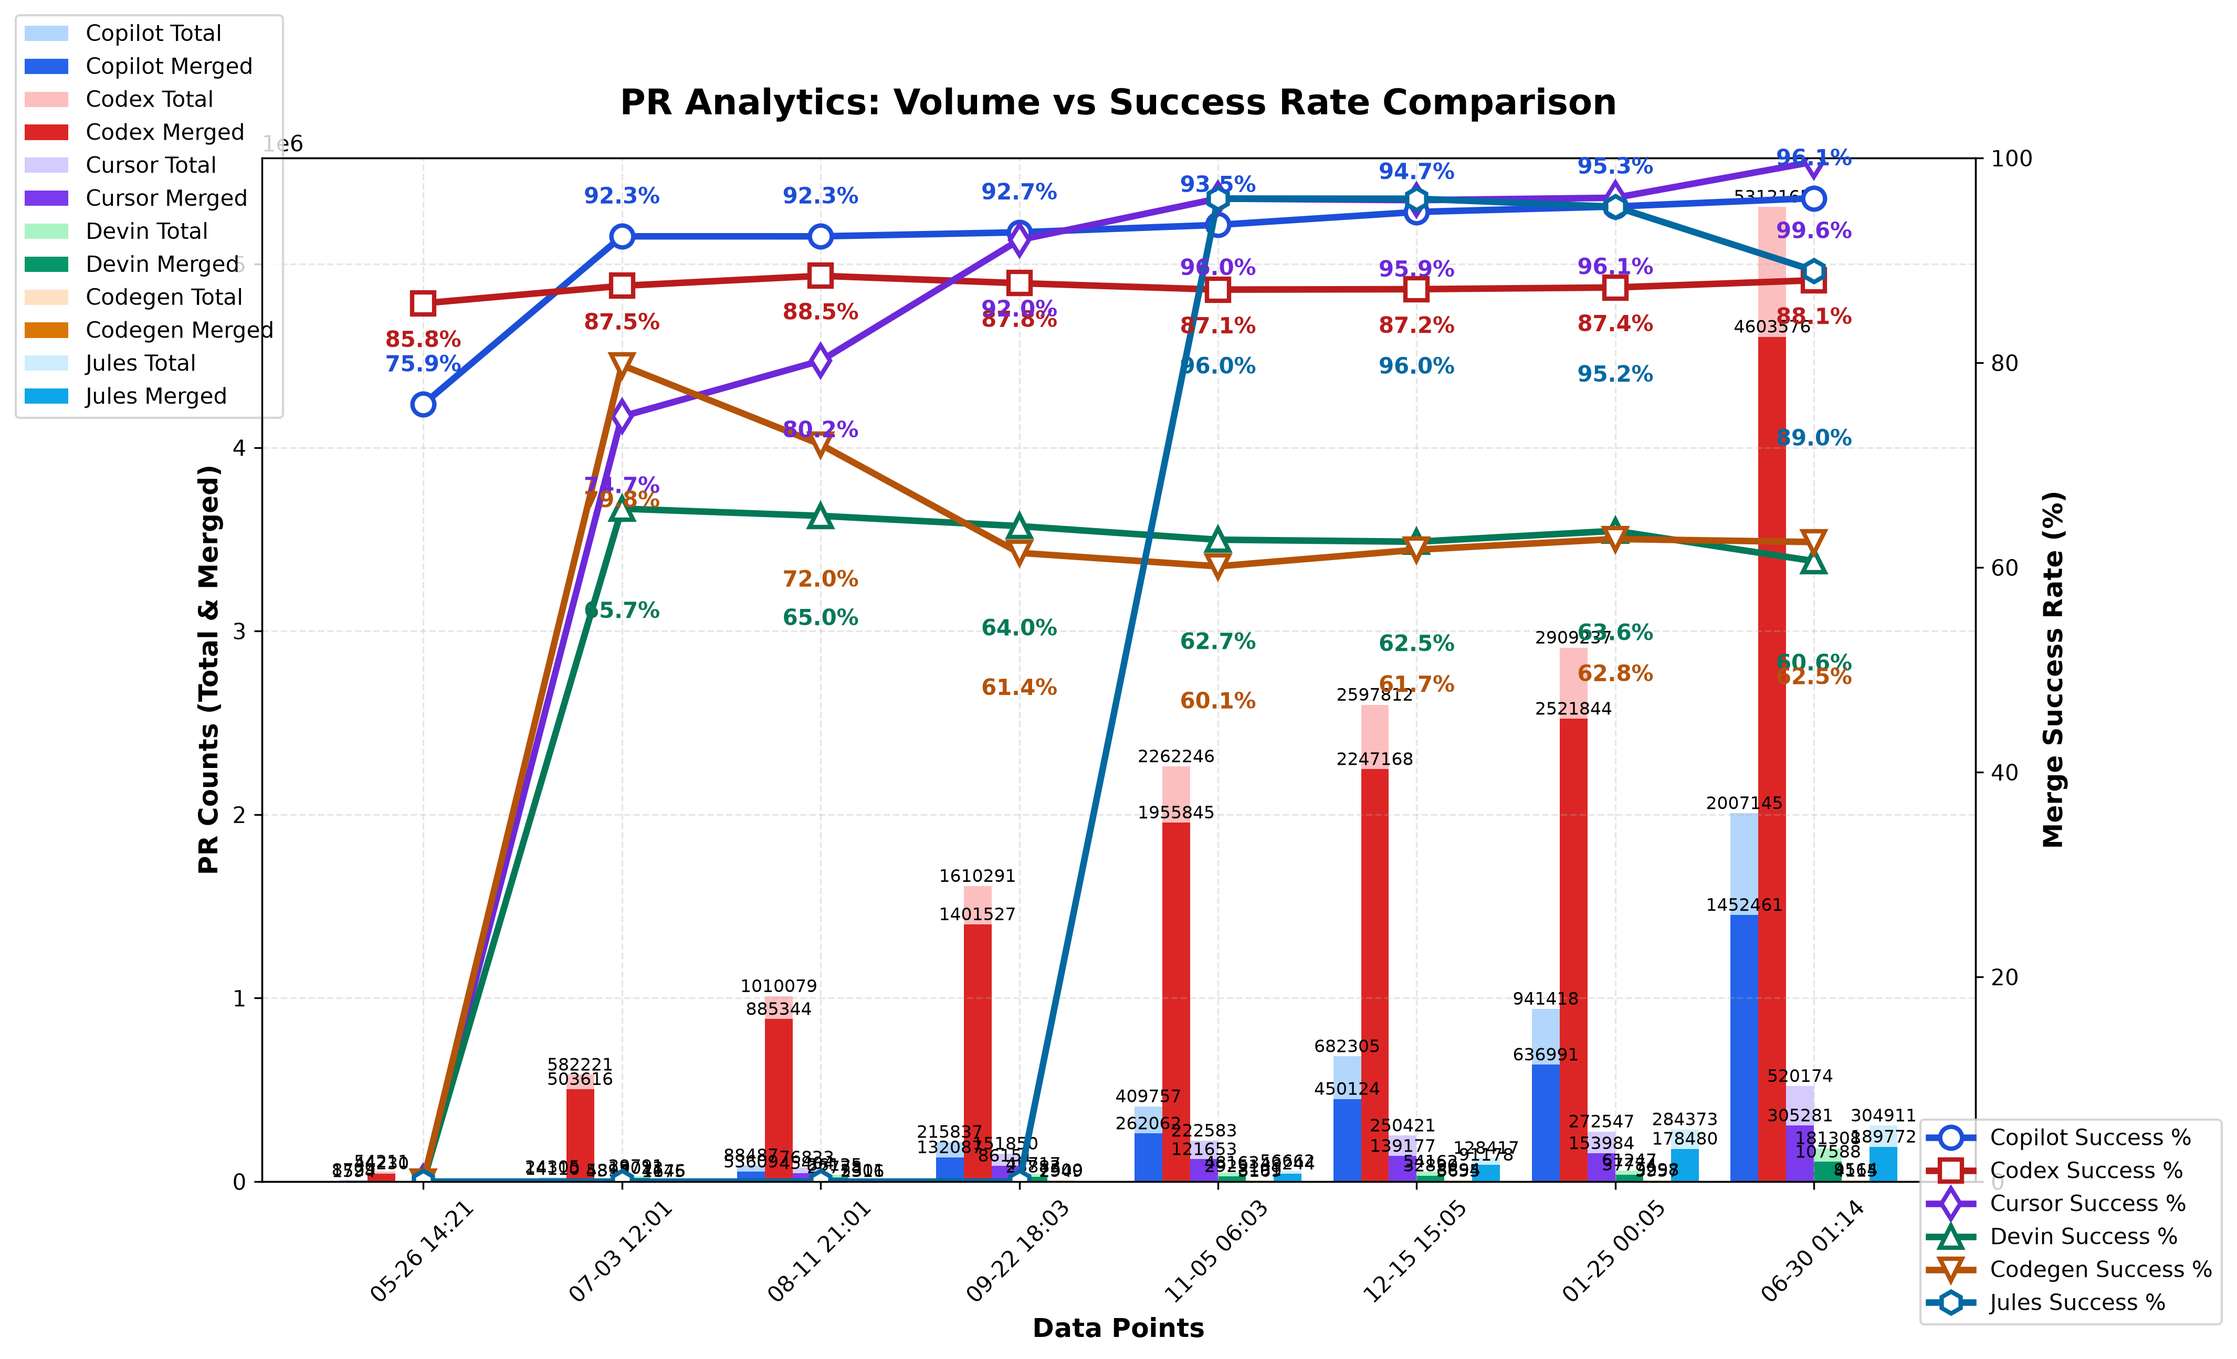
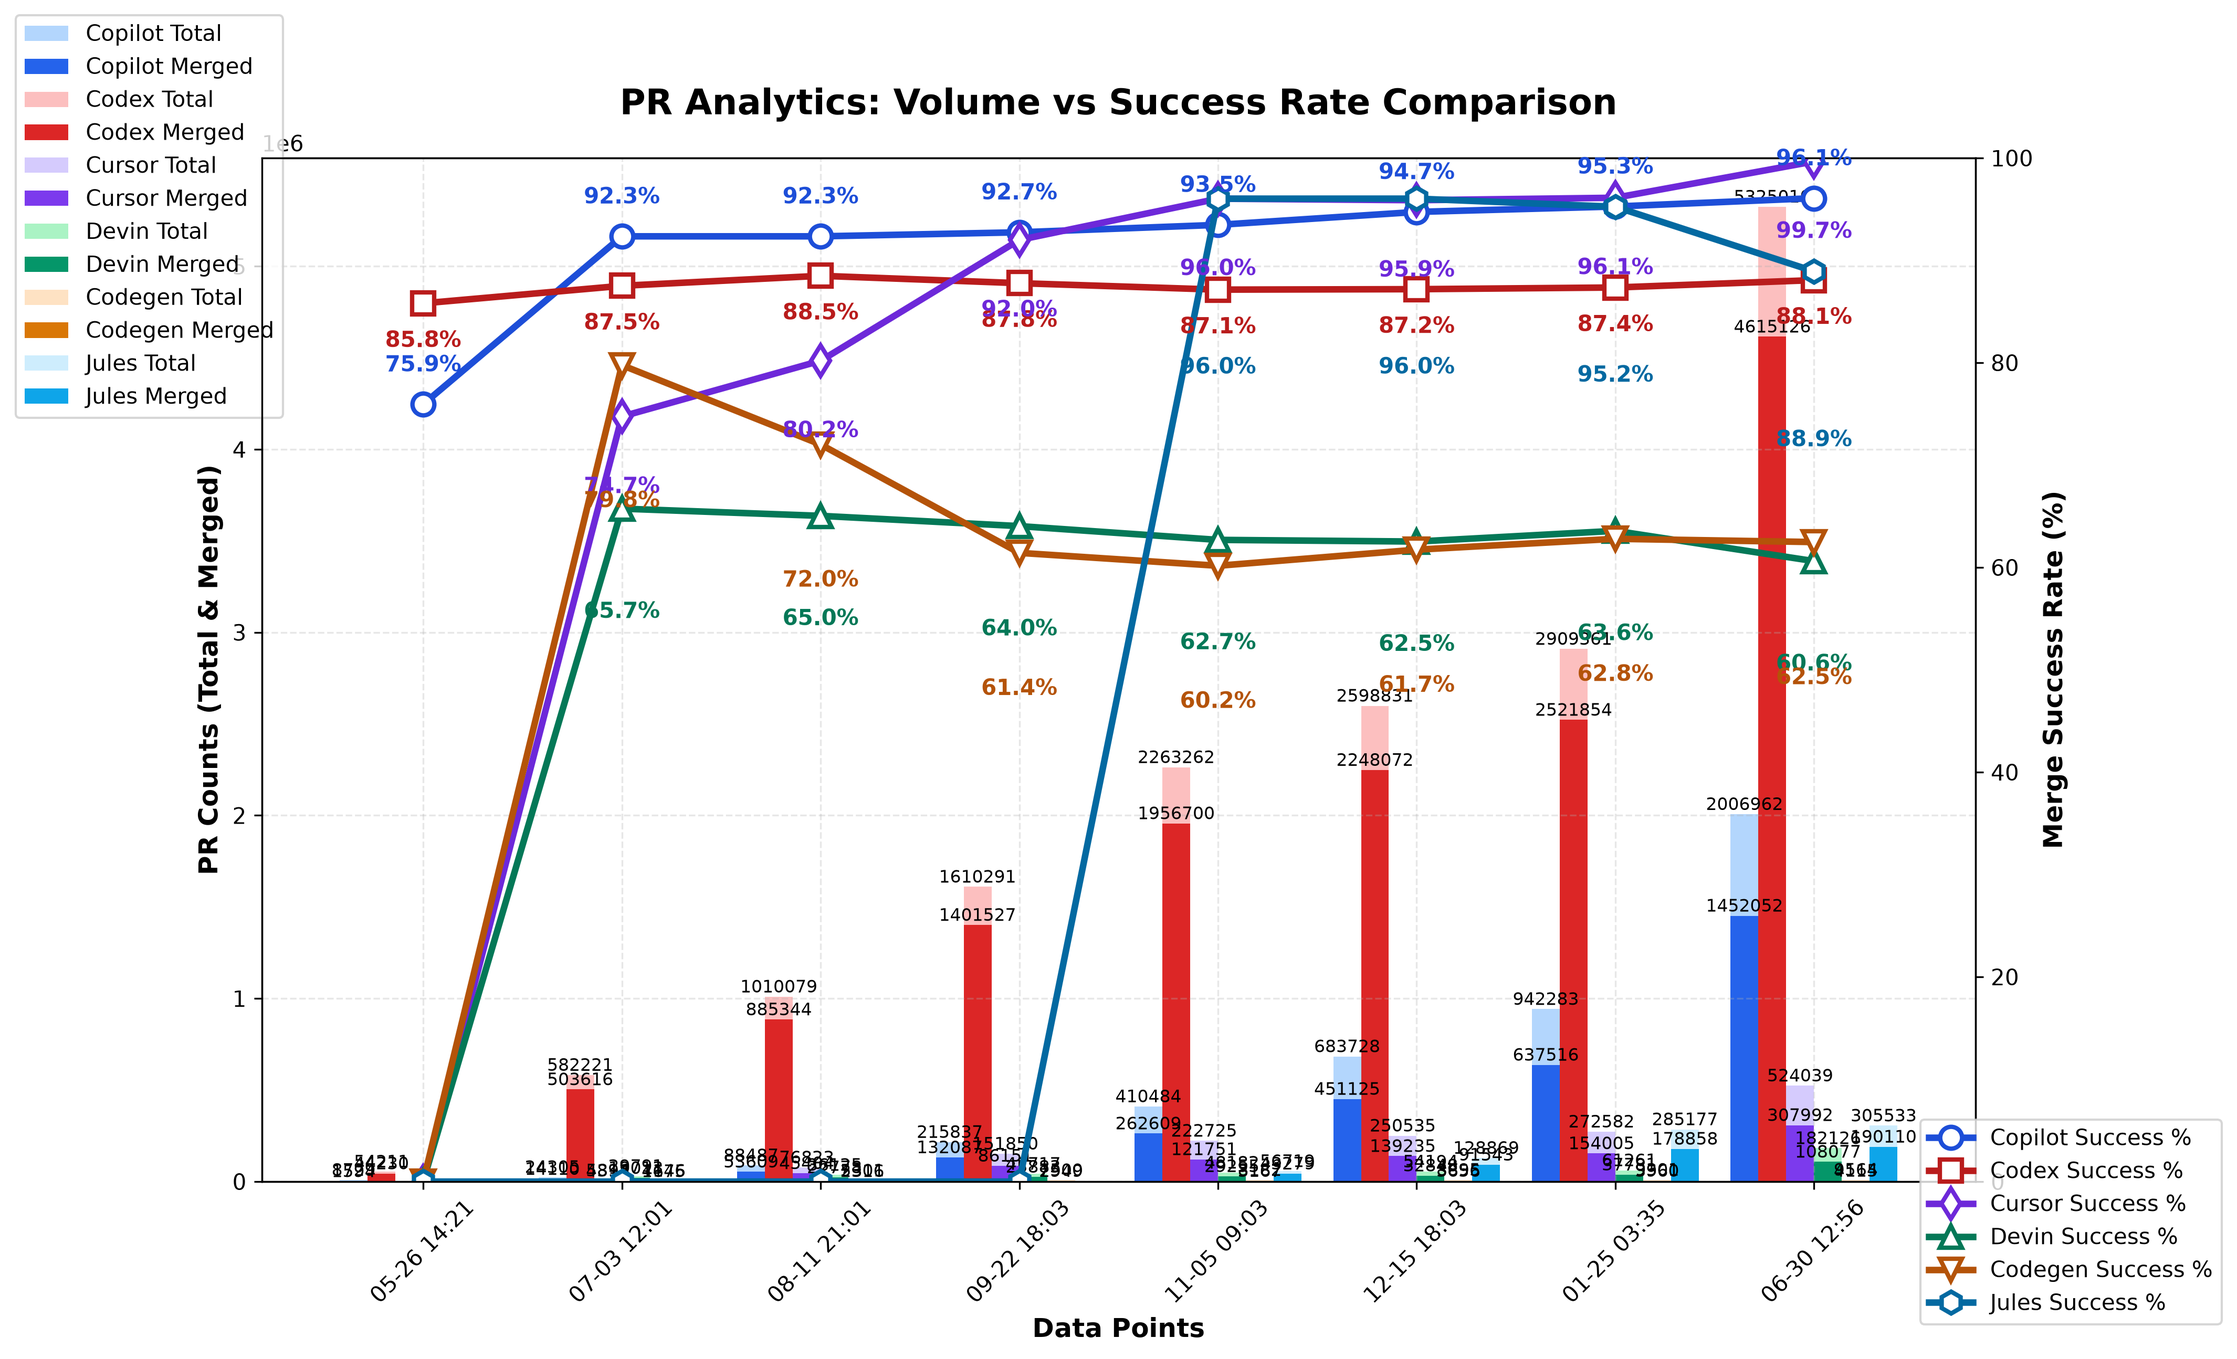
chore: update PR‑approval chart

diff --git a/docs/index.html b/docs/index.html
@@ -54,12 +54,12 @@
         <div class="agents-container" id="agentsContainer">
 
           <div class="agent"
-               data-success-rate="96.07729518449652"
-               data-success-rate-ready="96.07729518449652"
-               data-success-rate-total="72.36452772470349"
-               data-total-prs="2007145"
-               data-ready-prs="1511763"
-               data-merged-prs="1452461"
+               data-success-rate="96.07591578175668"
+               data-success-rate-ready="96.07591578175668"
+               data-success-rate-total="72.35074704952062"
+               data-total-prs="2006962"
+               data-ready-prs="1511359"
+               data-merged-prs="1452052"
                data-agent-name="GitHub Copilot coding agent">
             <div class="agent-header">
               <div class="rank" data-rank="1">#1</div>
@@ -67,9 +67,9 @@
               <div class="agent-info">
                 <h3><a href="https://docs.github.com/en/copilot/how-tos/use-copilot-agents/coding-agent" target="_blank">GitHub Copilot coding agent</a></h3>
                 <span class="agent-subtitle">
-                  <span class="pr-count">1,511,763</span>
+                  <span class="pr-count">1,511,359</span>
                   <span class="pr-type">ready</span> /
-                  <span class="pr-total">2,007,145</span>
+                  <span class="pr-total">2,006,962</span>
                   <span class="pr-total-label">all PRs</span>
                 </span>
               </div>
@@ -84,19 +84,19 @@
               <div class="secondary-metrics">
                 <div class="metric draft-metric">
                   <a href="https://github.com/search?q=is:pr+head:copilot/+is:draft&type=pullrequests" target="_blank">
-                    <span class="metric-count">495,382</span>
+                    <span class="metric-count">495,603</span>
                     <span>draft</span>
                   </a>
                 </div>
                 <div class="metric">
                   <a href="https://github.com/search?q=is:pr+head:copilot/+-is:draft&type=pullrequests" target="_blank">
-                    <span class="metric-count">1,511,763</span>
+                    <span class="metric-count">1,511,359</span>
                     <span>ready</span>
                   </a>
                 </div>
                 <div class="metric">
                   <a href="https://github.com/search?q=is:pr+head:copilot/+is:merged&type=pullrequests" target="_blank">
-                    <span class="metric-count">1,452,461</span>
+                    <span class="metric-count">1,452,052</span>
                     <span>merged</span>
                   </a>
                 </div>
@@ -105,18 +105,18 @@
           <div class="progress-bar">
             <div
               class="progress"
-              style="width: 96.07729518449652%; background-color: #2563eb"
+              style="width: 96.07591578175668%; background-color: #2563eb"
             ></div>
           </div>
         </div>
         
           <div class="agent"
-               data-success-rate="88.05674865841681"
-               data-success-rate-ready="88.05674865841681"
-               data-success-rate-total="86.66101297681831"
-               data-total-prs="5312165"
-               data-ready-prs="5227965"
-               data-merged-prs="4603576"
+               data-success-rate="88.06885632497455"
+               data-success-rate-ready="88.06885632497455"
+               data-success-rate-total="86.66887010540826"
+               data-total-prs="5325010"
+               data-ready-prs="5240361"
+               data-merged-prs="4615126"
                data-agent-name="OpenAI Codex">
             <div class="agent-header">
               <div class="rank" data-rank="2">#2</div>
@@ -124,9 +124,9 @@
               <div class="agent-info">
                 <h3><a href="https://openai.com/index/introducing-codex/" target="_blank">OpenAI Codex</a></h3>
                 <span class="agent-subtitle">
-                  <span class="pr-count">5,227,965</span>
+                  <span class="pr-count">5,240,361</span>
                   <span class="pr-type">ready</span> /
-                  <span class="pr-total">5,312,165</span>
+                  <span class="pr-total">5,325,010</span>
                   <span class="pr-total-label">all PRs</span>
                 </span>
               </div>
@@ -141,19 +141,19 @@
               <div class="secondary-metrics">
                 <div class="metric draft-metric">
                   <a href="https://github.com/search?q=is:pr+head:codex/+is:draft&type=pullrequests" target="_blank">
-                    <span class="metric-count">84,200</span>
+                    <span class="metric-count">84,649</span>
                     <span>draft</span>
                   </a>
                 </div>
                 <div class="metric">
                   <a href="https://github.com/search?q=is:pr+head:codex/+-is:draft&type=pullrequests" target="_blank">
-                    <span class="metric-count">5,227,965</span>
+                    <span class="metric-count">5,240,361</span>
                     <span>ready</span>
                   </a>
                 </div>
                 <div class="metric">
                   <a href="https://github.com/search?q=is:pr+head:codex/+is:merged&type=pullrequests" target="_blank">
-                    <span class="metric-count">4,603,576</span>
+                    <span class="metric-count">4,615,126</span>
                     <span>merged</span>
                   </a>
                 </div>
@@ -162,18 +162,18 @@
           <div class="progress-bar">
             <div
               class="progress"
-              style="width: 88.05674865841681%; background-color: #dc2626"
+              style="width: 88.06885632497455%; background-color: #dc2626"
             ></div>
           </div>
         </div>
         
           <div class="agent"
-               data-success-rate="99.63641704335906"
-               data-success-rate-ready="99.63641704335906"
-               data-success-rate-total="58.68824662516773"
-               data-total-prs="520174"
-               data-ready-prs="306395"
-               data-merged-prs="305281"
+               data-success-rate="99.66507780873516"
+               data-success-rate-ready="99.66507780873516"
+               data-success-rate-total="58.772724930778054"
+               data-total-prs="524039"
+               data-ready-prs="309027"
+               data-merged-prs="307992"
                data-agent-name="Cursor Agents">
             <div class="agent-header">
               <div class="rank" data-rank="3">#3</div>
@@ -181,9 +181,9 @@
               <div class="agent-info">
                 <h3><a href="https://docs.cursor.com/background-agent" target="_blank">Cursor Agents</a></h3>
                 <span class="agent-subtitle">
-                  <span class="pr-count">306,395</span>
+                  <span class="pr-count">309,027</span>
                   <span class="pr-type">ready</span> /
-                  <span class="pr-total">520,174</span>
+                  <span class="pr-total">524,039</span>
                   <span class="pr-total-label">all PRs</span>
                 </span>
               </div>
@@ -191,26 +191,26 @@
             <div class="metrics">
               <div class="primary-metric">
                 <span class="metric-value">
-                  99.6%
+                  99.7%
                 </span>
                 <span class="metric-label">Success Rate</span>
               </div>
               <div class="secondary-metrics">
                 <div class="metric draft-metric">
                   <a href="https://github.com/search?q=is:pr+head:cursor/+is:draft&type=pullrequests" target="_blank">
-                    <span class="metric-count">213,779</span>
+                    <span class="metric-count">215,012</span>
                     <span>draft</span>
                   </a>
                 </div>
                 <div class="metric">
                   <a href="https://github.com/search?q=is:pr+head:cursor/+-is:draft&type=pullrequests" target="_blank">
-                    <span class="metric-count">306,395</span>
+                    <span class="metric-count">309,027</span>
                     <span>ready</span>
                   </a>
                 </div>
                 <div class="metric">
                   <a href="https://github.com/search?q=is:pr+head:cursor/+is:merged&type=pullrequests" target="_blank">
-                    <span class="metric-count">305,281</span>
+                    <span class="metric-count">307,992</span>
                     <span>merged</span>
                   </a>
                 </div>
@@ -219,18 +219,18 @@
           <div class="progress-bar">
             <div
               class="progress"
-              style="width: 99.63641704335906%; background-color: #7c3aed"
+              style="width: 99.66507780873516%; background-color: #7c3aed"
             ></div>
           </div>
         </div>
         
           <div class="agent"
-               data-success-rate="60.62115440961031"
-               data-success-rate-ready="60.62115440961031"
-               data-success-rate-total="59.339907781234146"
-               data-total-prs="181308"
-               data-ready-prs="177476"
-               data-merged-prs="107588"
+               data-success-rate="60.61797500729141"
+               data-success-rate-ready="60.61797500729141"
+               data-success-rate-total="59.34188419006622"
+               data-total-prs="182126"
+               data-ready-prs="178292"
+               data-merged-prs="108077"
                data-agent-name="Devin">
             <div class="agent-header">
               <div class="rank" data-rank="4">#4</div>
@@ -238,9 +238,9 @@
               <div class="agent-info">
                 <h3><a href="https://devin.ai/pricing" target="_blank">Devin</a></h3>
                 <span class="agent-subtitle">
-                  <span class="pr-count">177,476</span>
+                  <span class="pr-count">178,292</span>
                   <span class="pr-type">ready</span> /
-                  <span class="pr-total">181,308</span>
+                  <span class="pr-total">182,126</span>
                   <span class="pr-total-label">all PRs</span>
                 </span>
               </div>
@@ -255,19 +255,19 @@
               <div class="secondary-metrics">
                 <div class="metric draft-metric">
                   <a href="https://github.com/search?q=is:pr+author:devin-ai-integration[bot]+is:draft&type=pullrequests" target="_blank">
-                    <span class="metric-count">3,832</span>
+                    <span class="metric-count">3,834</span>
                     <span>draft</span>
                   </a>
                 </div>
                 <div class="metric">
                   <a href="https://github.com/search?q=is:pr+author:devin-ai-integration[bot]+-is:draft&type=pullrequests" target="_blank">
-                    <span class="metric-count">177,476</span>
+                    <span class="metric-count">178,292</span>
                     <span>ready</span>
                   </a>
                 </div>
                 <div class="metric">
                   <a href="https://github.com/search?q=is:pr+author:devin-ai-integration[bot]+is:merged&type=pullrequests" target="_blank">
-                    <span class="metric-count">107,588</span>
+                    <span class="metric-count">108,077</span>
                     <span>merged</span>
                   </a>
                 </div>
@@ -276,7 +276,7 @@
           <div class="progress-bar">
             <div
               class="progress"
-              style="width: 60.62115440961031%; background-color: #059669"
+              style="width: 60.61797500729141%; background-color: #059669"
             ></div>
           </div>
         </div>
@@ -339,12 +339,12 @@
         </div>
         
           <div class="agent"
-               data-success-rate="89.00082072927658"
-               data-success-rate-ready="89.00082072927658"
-               data-success-rate-total="62.23848926408034"
-               data-total-prs="304911"
-               data-ready-prs="213225"
-               data-merged-prs="189772"
+               data-success-rate="88.92329424531434"
+               data-success-rate-ready="88.92329424531434"
+               data-success-rate-total="62.22241132709069"
+               data-total-prs="305533"
+               data-ready-prs="213791"
+               data-merged-prs="190110"
                data-agent-name="Google Labs Jules">
             <div class="agent-header">
               <div class="rank" data-rank="6">#6</div>
@@ -352,9 +352,9 @@
               <div class="agent-info">
                 <h3><a href="https://labs.google/" target="_blank">Google Labs Jules</a></h3>
                 <span class="agent-subtitle">
-                  <span class="pr-count">213,225</span>
+                  <span class="pr-count">213,791</span>
                   <span class="pr-type">ready</span> /
-                  <span class="pr-total">304,911</span>
+                  <span class="pr-total">305,533</span>
                   <span class="pr-total-label">all PRs</span>
                 </span>
               </div>
@@ -362,26 +362,26 @@
             <div class="metrics">
               <div class="primary-metric">
                 <span class="metric-value">
-                  89.0%
+                  88.9%
                 </span>
                 <span class="metric-label">Success Rate</span>
               </div>
               <div class="secondary-metrics">
                 <div class="metric draft-metric">
                   <a href="https://github.com/search?q=is:pr+author:google-labs-jules[bot]+is:draft&type=pullrequests" target="_blank">
-                    <span class="metric-count">91,686</span>
+                    <span class="metric-count">91,742</span>
                     <span>draft</span>
                   </a>
                 </div>
                 <div class="metric">
                   <a href="https://github.com/search?q=is:pr+author:google-labs-jules[bot]+-is:draft&type=pullrequests" target="_blank">
-                    <span class="metric-count">213,225</span>
+                    <span class="metric-count">213,791</span>
                     <span>ready</span>
                   </a>
                 </div>
                 <div class="metric">
                   <a href="https://github.com/search?q=is:pr+author:google-labs-jules[bot]+is:merged&type=pullrequests" target="_blank">
-                    <span class="metric-count">189,772</span>
+                    <span class="metric-count">190,110</span>
                     <span>merged</span>
                   </a>
                 </div>
@@ -390,7 +390,7 @@
           <div class="progress-bar">
             <div
               class="progress"
-              style="width: 89.00082072927658%; background-color: #0ea5e9"
+              style="width: 88.92329424531434%; background-color: #0ea5e9"
             ></div>
           </div>
         </div>
@@ -535,7 +535,7 @@
       <!-- Simple Footer -->
       <footer class="footer">
         <p>
-          Updated June 30, 2026 01:14 UTC •
+          Updated June 30, 2026 12:56 UTC •
           <a href="https://github.com/aavetis/ai-pr-watcher" target="_blank">by aavetis</a>
         </p>
       </footer>

diff --git a/README.md b/README.md
@@ -52,9 +52,9 @@ Explore the GitHub search queries used:
 
 | Project | Ready PRs | Merged PRs | Success Rate |
 | ------- | --------- | ---------- | ------------ |
-| Copilot | 1,511,763 | 1,452,461 | 96.08% |
-| Codex | 5,227,965 | 4,603,576 | 88.06% |
-| Cursor | 306,395 | 305,281 | 99.64% |
-| Devin | 177,476 | 107,588 | 60.62% |
+| Copilot | 1,511,359 | 1,452,052 | 96.08% |
+| Codex | 5,240,361 | 4,615,126 | 88.07% |
+| Cursor | 309,027 | 307,992 | 99.67% |
+| Devin | 178,292 | 108,077 | 60.62% |
 | Codegen | 6,586 | 4,115 | 62.48% |
-| Jules | 213,225 | 189,772 | 89.0% |
+| Jules | 213,791 | 190,110 | 88.92% |
